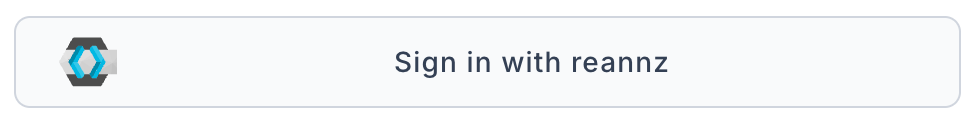
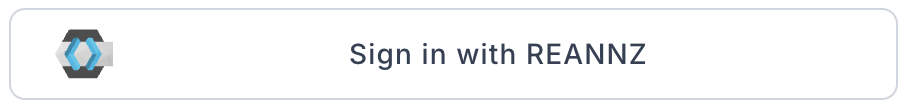
docs(hpc-portal): update sign-in button to REANNZ

Changed region(s): [[0.0, 0.0556, 1.0, 0.9444], [0.37, 0.3889, 0.7093, 0.6389], [0.0617, 0.25, 0.1233, 0.75]]

diff --git a/docs/Getting_Started/HPC_Portal/Renewing_an_Allocation.md b/docs/Getting_Started/HPC_Portal/Renewing_an_Allocation.md
@@ -32,7 +32,7 @@ To renew *and* grow an allocation, make both.
 Project managers and project members can ask for a new end date.
 An organization owner at your institution approves it.
 
-1. Log in to [https://hpc-portal.reannz.co.nz](https://hpc-portal.reannz.co.nz) with **Sign in with reannz**.
+1. Log in to [https://hpc-portal.reannz.co.nz](https://hpc-portal.reannz.co.nz) with **Sign in with REANNZ**.
    See [Log in](Navigating_the_HPC_Portal.md#log-in).
 2. Open the resource: go to **Projects**, open your project, click the **Resources** tab and select the allocation.
 3. Click **Actions**, then **Request end date change**.

diff --git a/docs/Getting_Started/HPC_Portal/Navigating_the_HPC_Portal.md b/docs/Getting_Started/HPC_Portal/Navigating_the_HPC_Portal.md
@@ -14,7 +14,7 @@ The portal is built on [Waldur](https://docs.waldur.com/latest/user-guide/).
 
 1. Go to [https://hpc-portal.reannz.co.nz](https://hpc-portal.reannz.co.nz).
 2. Click **Sign in with REANNZ**.
-    ![Sign in with reannz button](../../assets/images/HPC_Portal_sign_in_with_reannz.png)
+    ![Sign in with REANNZ button](../../assets/images/HPC_Portal_sign_in_with_reannz.png)
 3. Choose your home institution and log in with your institutional credentials.
    This login goes through Tuakiri, the same as for my.nesi.org.nz.
 
